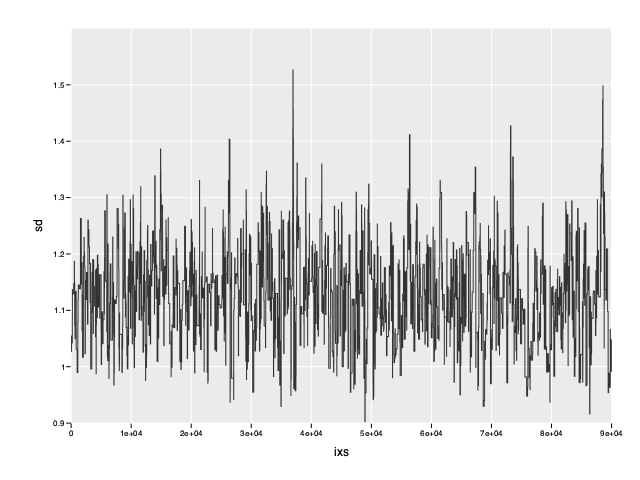
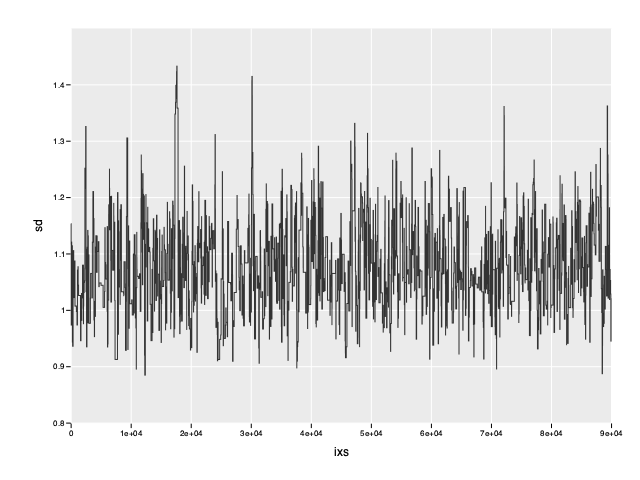
Minor

Changed region(s): [[0.0938, 0.1562, 0.9688, 0.8438]]

diff --git a/index.html b/index.html
@@ -217,8 +217,8 @@ The steps of this algorithm are as follows:</p>
 
 <span class="hljs-keyword">var</span>
   nSamples = <span class="hljs-number">100000</span>
-  (b0Samples, b1Samples, sdSamples) = mcmc(x, y, nSamples, <span class="hljs-number">0</span>, <span class="hljs-number">1</span>, <span class="hljs-number">1</span>, <span class="hljs-number">0.1</span>, <span class="hljs-number">0.1</span>,
-      <span class="hljs-number">0.1</span>)</code></pre>
+  (b0Samples, b1Samples, sdSamples) = mcmc(x, y, nSamples, <span class="hljs-number">0.0</span>, <span class="hljs-number">1.0</span>, <span class="hljs-number">1.0</span>, <span class="hljs-number">0.1</span>,
+      <span class="hljs-number">0.1</span>, <span class="hljs-number">0.1</span>)</code></pre>
 <h1>Burnin</h1>
 <p>Initially the mcmc chain may spend time exploring unlikely regions of
 parameter space. We can get a better approximation of the posterior if we
@@ -239,9 +239,9 @@ the mean. Let's see how close these values are to the true values of the paramet
 <span class="hljs-keyword">echo</span> meanB0
 <span class="hljs-keyword">echo</span> meanB1
 <span class="hljs-keyword">echo</span> meanSd</code></pre>
-<pre><samp>-0.002775107229619194
-1.000429152353974
-1.125313329690522
+<pre><samp>-0.04145095272428544
+0.999004531049537
+1.077208073147164
 </samp></pre>
 <h1>Highest density interval</h1>
 <p>The means give us a point estimate for our parameter values but they tell us
@@ -271,9 +271,9 @@ looking at the highest density interval.</p>
 <span class="hljs-keyword">echo</span> b0HdiMin, <span class="hljs-string">&quot; &quot;</span>, b0HdiMax
 <span class="hljs-keyword">echo</span> b1HdiMin, <span class="hljs-string">&quot; &quot;</span>, b1HdiMax
 <span class="hljs-keyword">echo</span> sdHdiMin, <span class="hljs-string">&quot; &quot;</span>, sdHdiMax</code></pre>
-<pre><samp>-0.5326155208898431 0.4460144939107637
-0.992316502107233 1.00891980911337
-0.9663992112292861 1.286030093739193
+<pre><samp>-0.5643466018940605 0.3944481959585089
+0.9912095534185615 1.007496392211573
+0.933831185636587 1.228903768832325
 </samp></pre>
 <h1>Trace plots</h1>
 <p>We can get a sense for how well our mcmc performed and therefore gain some<br />
@@ -348,6 +348,7 @@ StatusSuccess output of write_to_png
 <span class="hljs-keyword">for</span> i <span class="hljs-keyword">in</span> <span class="hljs-number">0</span> ..&lt; n:
   stX[i] = (x[i] - meanX) / sdX
   stY[i] = (y[i] - meanY) / sdY</code></pre>
+<p>We can see that these data are now centered around zero and have the same scale.</p>
 <pre><code class="nim hljs"><span class="hljs-keyword">var</span> standardized = seqsToDf(stX, stY)
 ggplot(standardized, aes(<span class="hljs-string">&quot;x&quot;</span>, <span class="hljs-string">&quot;y&quot;</span>)) + geom_point() +
     ggsave(<span class="hljs-string">&quot;images/st-simulated-data.png&quot;</span>)</code></pre>
@@ -358,13 +359,16 @@ ggplot(standardized, aes(<span class="hljs-string">&quot;x&quot;</span>, <span c
 <figcaption></figcaption>
 </figure>
 
-<pre><code class="nim hljs"><span class="hljs-keyword">var</span> (b0StSamples, b1StSamples, sdStSamples) = mcmc(stX, stY, nSamples, <span class="hljs-number">0</span>, <span class="hljs-number">0</span>, <span class="hljs-number">1</span>,
+<p>We can run the MCMC as before with some slight changes. Since our data are on a<br />
+different scale, the proposals we were making before wont work very well. So
+we should make the proposed changes smaller.</p>
+<pre><code class="nim hljs"><span class="hljs-keyword">var</span> (b0StSamples, b1StSamples, sdStSamples) = mcmc(stX, stY, nSamples, <span class="hljs-number">0</span>, <span class="hljs-number">1</span>, <span class="hljs-number">1</span>,
     <span class="hljs-number">0.01</span>, <span class="hljs-number">0.01</span>, <span class="hljs-number">0.01</span>)</code></pre>
 <h3>Convert back to original scale</h3>
 <p>$$ \beta_{0} = \zeta_{0} SD_{y} + M_{y} - \zeta_{1} SD_{y} M_{x} / SD_{x} $$<br />
 $$ \beta_{1} = \zeta_{1} SD_{y} / SD_{x} $$
 Is this right?
-$$ \beta_{0} = \zeta_{SD} SD_{y} + M_{y} - \zeta_{1} SD_{y} M_{x} / SD_{x} $$</p>
+$$ \tau = \zeta_{\tau} SD_{y} + M_{y} - \zeta_{1} SD_{y} M_{x} / SD_{x} $$</p>
 <pre><code class="nim hljs"><span class="hljs-keyword">for</span> i <span class="hljs-keyword">in</span> <span class="hljs-number">0</span> ..&lt; nSamples:
   b0StSamples[i] = b0StSamples[i] * sdY + meanY -
       b1StSamples[i] * sdY * meanX / sdX
@@ -389,12 +393,12 @@ $$ \beta_{0} = \zeta_{SD} SD_{y} + M_{y} - \zeta_{1} SD_{y} M_{x} / SD_{x} $$</p
 <span class="hljs-keyword">let</span> stDf = seqsToDf({<span class="hljs-string">&quot;ixs&quot;</span>: ixs, <span class="hljs-string">&quot;b0&quot;</span>: b0StSamples[burnin ..^ <span class="hljs-number">1</span>],
                      <span class="hljs-string">&quot;b1&quot;</span>: b1StSamples[burnin ..^ <span class="hljs-number">1</span>],
                      <span class="hljs-string">&quot;sd&quot;</span>: sdStSamples[burnin ..^ <span class="hljs-number">1</span>]})</code></pre>
-<pre><samp>0.02178682696477597
-1.000047917231239
-1.235752301390908
--0.5228674329792611 0.5614092702740123
-0.9910823827888459 1.009720278197477
-0.6955795718746316 1.733878746537485
+<pre><samp>0.00065363619207229
+0.9983674001414232
+1.254999294297894
+-0.5586095619170663 0.5569507163840655
+0.9891454068954827 1.008214755395163
+0.7246875719879213 1.78933671391998
 </samp></pre>
 <h3>Plots</h3>
 <pre><code class="nim hljs">ggplot(stDf, aes(x = <span class="hljs-string">&quot;ixs&quot;</span>, y = <span class="hljs-string">&quot;b0&quot;</span>)) + geom_line() +
@@ -684,7 +688,7 @@ nbCode:
     <span class="hljs-literal">result</span> = (b0Samples, b1Samples, sdSamples)
   <span class="hljs-keyword">var</span>
     nSamples = <span class="hljs-number">100000</span>
-    (b0Samples, b1Samples, sdSamples) = mcmc(x, y, nSamples, <span class="hljs-number">0</span>, <span class="hljs-number">1</span>, <span class="hljs-number">1</span>, <span class="hljs-number">0.1</span>, <span class="hljs-number">0.1</span>, <span class="hljs-number">0.1</span>) 
+    (b0Samples, b1Samples, sdSamples) = mcmc(x, y, nSamples, <span class="hljs-number">0.0</span>, <span class="hljs-number">1.0</span>, <span class="hljs-number">1.0</span>, <span class="hljs-number">0.1</span>, <span class="hljs-number">0.1</span>, <span class="hljs-number">0.1</span>) 
   
 
 nbText: <span class="hljs-string">md&quot;&quot;&quot;
@@ -781,7 +785,6 @@ nbImage(<span class="hljs-string">&quot;images/samples-sd.png&quot;</span>)
 
 nbText: <span class="hljs-string">md&quot;&quot;&quot;
 # Histograms 
-
 &quot;&quot;&quot;</span>
 nbCode:
   ggplot(df, aes(<span class="hljs-string">&quot;b0&quot;</span>)) +
@@ -815,6 +818,10 @@ nbCode:
     stX[i] = (x[i] - meanX) / sdX 
     stY[i] = (y[i] - meanY) / sdY
 
+
+nbText: <span class="hljs-string">md&quot;&quot;&quot;
+We can see that these data are now centered around zero and have the same scale.
+&quot;&quot;&quot;</span>
 nbCode:
   <span class="hljs-keyword">var</span> standardized = seqsToDf(stX, stY)
   ggplot(standardized, aes(<span class="hljs-string">&quot;x&quot;</span>, <span class="hljs-string">&quot;y&quot;</span>)) +
@@ -822,9 +829,15 @@ nbCode:
     ggsave(<span class="hljs-string">&quot;images/st-simulated-data.png&quot;</span>)
 nbImage(<span class="hljs-string">&quot;images/st-simulated-data.png&quot;</span>)
 
+
+nbText: <span class="hljs-string">md&quot;&quot;&quot;
+We can run the MCMC as before with some slight changes. Since our data are on a  
+different scale, the proposals we were making before wont work very well. So
+we should make the proposed changes smaller.
+&quot;&quot;&quot;</span>
 nbCode:
   <span class="hljs-keyword">var</span> 
-    (b0StSamples, b1StSamples, sdStSamples) = mcmc(stX, stY, nSamples, <span class="hljs-number">0</span>, <span class="hljs-number">0</span>, <span class="hljs-number">1</span>, <span class="hljs-number">0.01</span>, <span class="hljs-number">0.01</span>, <span class="hljs-number">0.01</span>) 
+    (b0StSamples, b1StSamples, sdStSamples) = mcmc(stX, stY, nSamples, <span class="hljs-number">0</span>, <span class="hljs-number">1</span>, <span class="hljs-number">1</span>, <span class="hljs-number">0.01</span>, <span class="hljs-number">0.01</span>, <span class="hljs-number">0.01</span>) 
 
 
 nbText: <span class="hljs-string">md&quot;&quot;&quot; 
@@ -832,14 +845,14 @@ nbText: <span class="hljs-string">md&quot;&quot;&quot;
 $$ \beta_{0} = \zeta_{0} SD_{y} + M_{y} - \zeta_{1} SD_{y} M_{x} / SD_{x} $$  
 $$ \beta_{1} = \zeta_{1} SD_{y} / SD_{x} $$ 
 Is this right?
-$$ \beta_{0} = \zeta_{SD} SD_{y} + M_{y} - \zeta_{1} SD_{y} M_{x} / SD_{x} $$  
-
+$$ \tau = \zeta_{\tau} SD_{y} + M_{y} - \zeta_{1} SD_{y} M_{x} / SD_{x} $$  
 &quot;&quot;&quot;</span>
 nbCode: 
   <span class="hljs-keyword">for</span> i <span class="hljs-keyword">in</span> <span class="hljs-number">0</span> ..&lt; nSamples:
     b0StSamples[i] = b0StSamples[i] * sdY + meanY - b1StSamples[i] * sdY * meanX / sdX
     b1StSamples[i] = b1StSamples[i] * sdY / sdX 
     sdStSamples[i] = sdStSamples[i] * sdY + meanY - b1StSamples[i] * sdY * meanX / sdX
+
 
 nbText: <span class="hljs-string">md&quot;&quot;&quot;
 ### Means and HDIs
@@ -866,6 +879,7 @@ nbCode:
       <span class="hljs-string">&quot;b0&quot;</span>:b0StSamples[burnin..^<span class="hljs-number">1</span>],
       <span class="hljs-string">&quot;b1&quot;</span>:b1StSamples[burnin..^<span class="hljs-number">1</span>],
       <span class="hljs-string">&quot;sd&quot;</span>:sdStSamples[burnin..^<span class="hljs-number">1</span>]})
+
 
 nbText: <span class="hljs-string">md&quot;&quot;&quot;
 ### Plots
@@ -902,7 +916,6 @@ nbImage(<span class="hljs-string">&quot;images/st-samples-sd.png&quot;</span>)
 nbImage(<span class="hljs-string">&quot;images/st-hist-b0.png&quot;</span>)
 nbImage(<span class="hljs-string">&quot;images/st-hist-b1.png&quot;</span>)
 nbImage(<span class="hljs-string">&quot;images/st-hist-sd.png&quot;</span>)
-
 
 
 nbText: <span class="hljs-string">md&quot;&quot;&quot;
